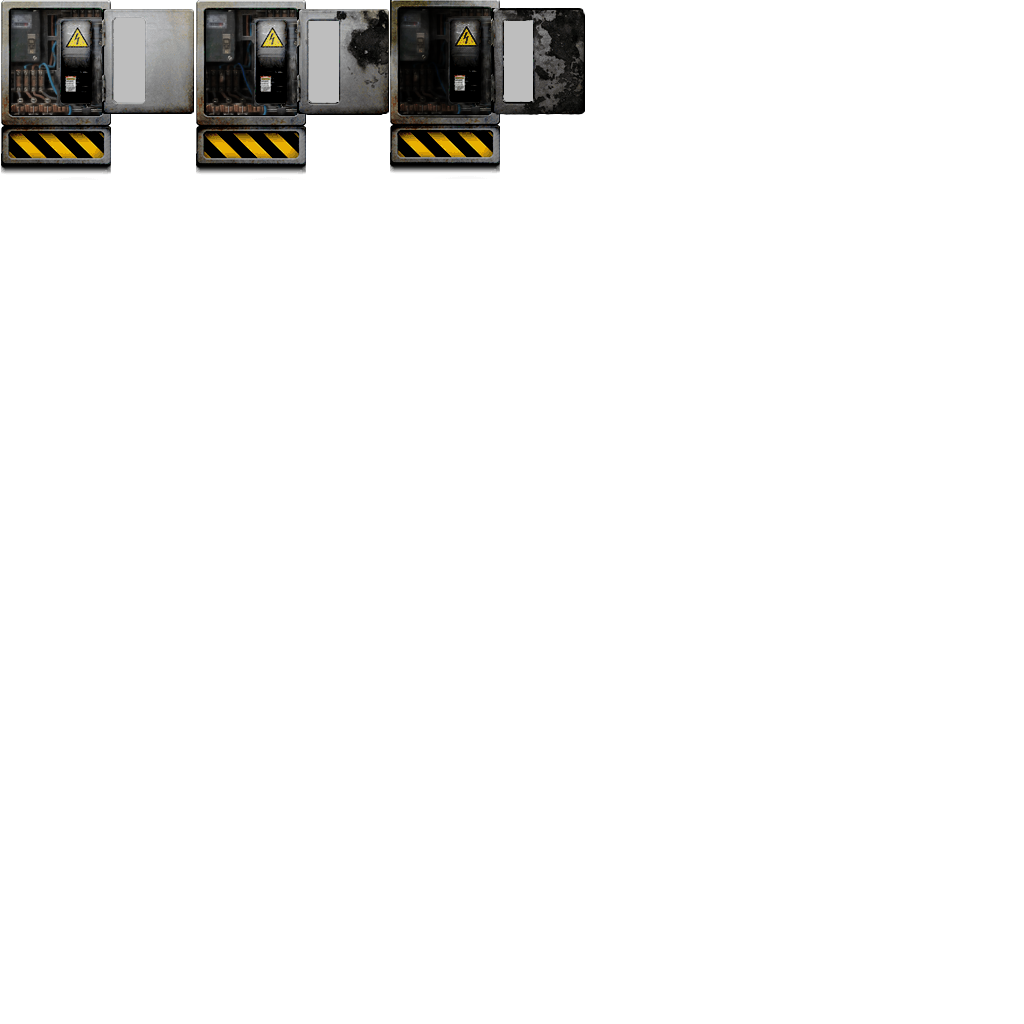
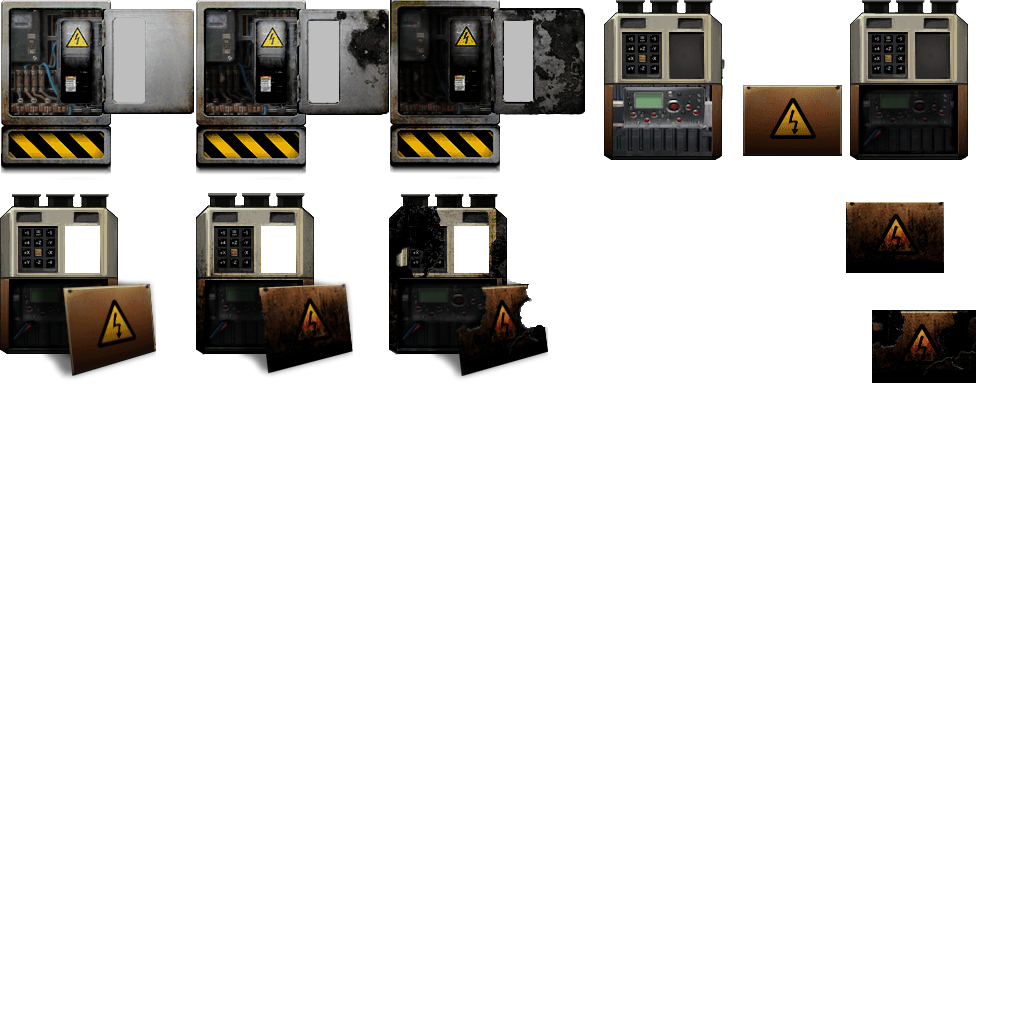
68.     1. Lowering fusedamage from 10~50 to 10~35.     2. Adding junctionbox damage open sprites.     3. Adding battery damage open sprites.

diff --git a/CSharp/Client/Item_harmo.cs b/CSharp/Client/Item_harmo.cs
@@ -63,9 +63,18 @@ namespace BarotraumaDieHard
             DrawCustomSprite("seccabinet_open_1", "securesteelcabinet", "draw_container_open", __instance, spriteBatch);
             DrawCustomSprite("toxiccabinet_open", "toxcabinet", "draw_container_open", __instance, spriteBatch);
             DrawCustomSprite("supplycabinet_open", "suppliescabinet", "draw_container_open", __instance, spriteBatch);
-            DrawCustomSprite("junctionbox_open_nodamage",  "junctionbox", "junctionbox_openlid", __instance, spriteBatch);
 
 
+            
+            DrawCustomSprite("junctionbox_open_nodamage",  "junctionbox", "junctionbox_openlid", __instance, (60f, 100f), spriteBatch);
+            DrawCustomSprite("junctionbox_open_damage",  "junctionbox", "junctionbox_openlid", __instance, (10f, 60), spriteBatch);
+            DrawCustomSprite("junctionbox_open_broken",  "junctionbox", "junctionbox_openlid", __instance, (0f, 10f), spriteBatch);
+            DrawCustomSprite("junctionbox_open_broken",  "junctionbox", "", __instance, (0f, 0f), spriteBatch); // Ok, the item component doesn't read status effect so we have to work around. let's display the open lid by default if it's completely broken.
+
+            DrawCustomSprite("battery_open_nodamage",  "battery", "draw_container_open", __instance, (60f, 100f), spriteBatch);
+            DrawCustomSprite("battery_open_damage",  "battery", "draw_container_open", __instance, (10f, 60), spriteBatch);
+            DrawCustomSprite("battery_open_broken",  "battery", "draw_container_open", __instance, (0f, 10f), spriteBatch);
+            DrawCustomSprite("battery_open_broken",  "battery", "", __instance, (0f, 0f), spriteBatch);
 
 
 
@@ -108,30 +117,34 @@ namespace BarotraumaDieHard
         }
 
 
-        public static void DrawCustomSprite(string spriteName, Item targetItem, SpriteBatch spriteBatch)
+        public static void DrawCustomSprite(string spriteName, string targetItemIdentifier, string targetItemTag, Item targetItem, (float minCondition, float maxCondition) conditionRange, SpriteBatch spriteBatch)
+{
+    // Try to get the sprite by its name from the dictionary
+    if (GameSessionDieHard.customSprites.TryGetValue(spriteName, out Sprite customSprite))
+    {
+        // Check if the item matches the specified identifier and tag
+        if (targetItem.Prefab.Identifier == targetItemIdentifier && 
+            targetItem.HasTag(targetItemTag) && 
+            targetItem.Condition >= conditionRange.minCondition && 
+            targetItem.Condition <= conditionRange.maxCondition)
         {
-            
-            // Try to get the sprite by its name from the dictionary
-            if (GameSessionDieHard.customSprites.TryGetValue(spriteName, out Sprite customSprite))
-            {
-                    // Calculate the draw position. Need to invert Y-axis.
-                    Vector2 drawPosition = new Vector2(targetItem.DrawPosition.X, -targetItem.DrawPosition.Y);
+            // Calculate the draw position. Need to invert Y-axis.
+            Vector2 drawPosition = new Vector2(targetItem.DrawPosition.X, -targetItem.DrawPosition.Y);
 
-                    // Draw the sprite at the adjusted position
-                    customSprite.Draw(
-                        spriteBatch, 
-                        pos: drawPosition, 
-                        color: targetItem.GetSpriteColor(), 
-                        rotate: targetItem.Rotation, 
-                        scale: targetItem.Scale, 
-                        origin: customSprite.Origin,
-                        depth: targetItem.GetDrawDepth() - 0.01f
-                    );
-                    
-                
-            }
-            
+            // Draw the sprite at the adjusted position
+            customSprite.Draw(
+                spriteBatch, 
+                pos: drawPosition, 
+                color: targetItem.GetSpriteColor(), 
+                rotate: targetItem.Rotation, 
+                scale: targetItem.Scale, 
+                origin: customSprite.Origin,
+                depth: targetItem.GetDrawDepth() - 0.01f
+            );
         }
+    }
+}
+
 
 
                 

diff --git a/CSharp/Shared/GameSession/GameSession_harmo.cs b/CSharp/Shared/GameSession/GameSession_harmo.cs
@@ -80,8 +80,13 @@ namespace BarotraumaDieHard
             AddTextureToSpriteList("seccabinet_open_1", "%ModDir%/Items/Containers/containers_opened.png", new Rectangle(773, 8, 105, 209), originPercentage: new Vector2(0.5f, 0.42f));
             AddTextureToSpriteList("toxiccabinet_open", "%ModDir%/Items/Containers/containers_opened.png", new Rectangle(684, 426, 111, 155), originPercentage: new Vector2(0.5f, 0.48f));
             AddTextureToSpriteList("supplycabinet_open", "%ModDir%/Items/Containers/containers_opened.png", new Rectangle(827, 621, 189, 132), originPercentage: new Vector2(0.7f, 0.498f));
-            AddTextureToSpriteList("junctionbox_open_nodamage", "%ModDir%/Items/Electricity/poweritemopened.png", new Rectangle(0, 0, 194, 178), originPercentage: new Vector2(0.3f, 0.498f));
+            AddTextureToSpriteList("junctionbox_open_nodamage", "%ModDir%/Items/Electricity/poweritemopened.png", new Rectangle(0, 0, 194, 178), originPercentage: new Vector2(0.29f, 0.498f));
+            AddTextureToSpriteList("junctionbox_open_damage", "%ModDir%/Items/Electricity/poweritemopened.png", new Rectangle(196, 0, 194, 178), originPercentage: new Vector2(0.29f, 0.498f));
+            AddTextureToSpriteList("junctionbox_open_broken", "%ModDir%/Items/Electricity/poweritemopened.png", new Rectangle(396, 0, 194, 178), originPercentage: new Vector2(0.26f, 0.496f));
 
+            AddTextureToSpriteList("battery_open_nodamage", "%ModDir%/Items/Electricity/poweritemopened.png", new Rectangle(0, 194, 158, 184), originPercentage: new Vector2(0.37f, 0.43f));
+            AddTextureToSpriteList("battery_open_damage", "%ModDir%/Items/Electricity/poweritemopened.png", new Rectangle(196, 193, 158, 184), originPercentage: new Vector2(0.353f, 0.441f));
+            AddTextureToSpriteList("battery_open_broken", "%ModDir%/Items/Electricity/poweritemopened.png", new Rectangle(389, 194, 159, 184), originPercentage: new Vector2(0.353f, 0.441f));
 
 #endif
 
